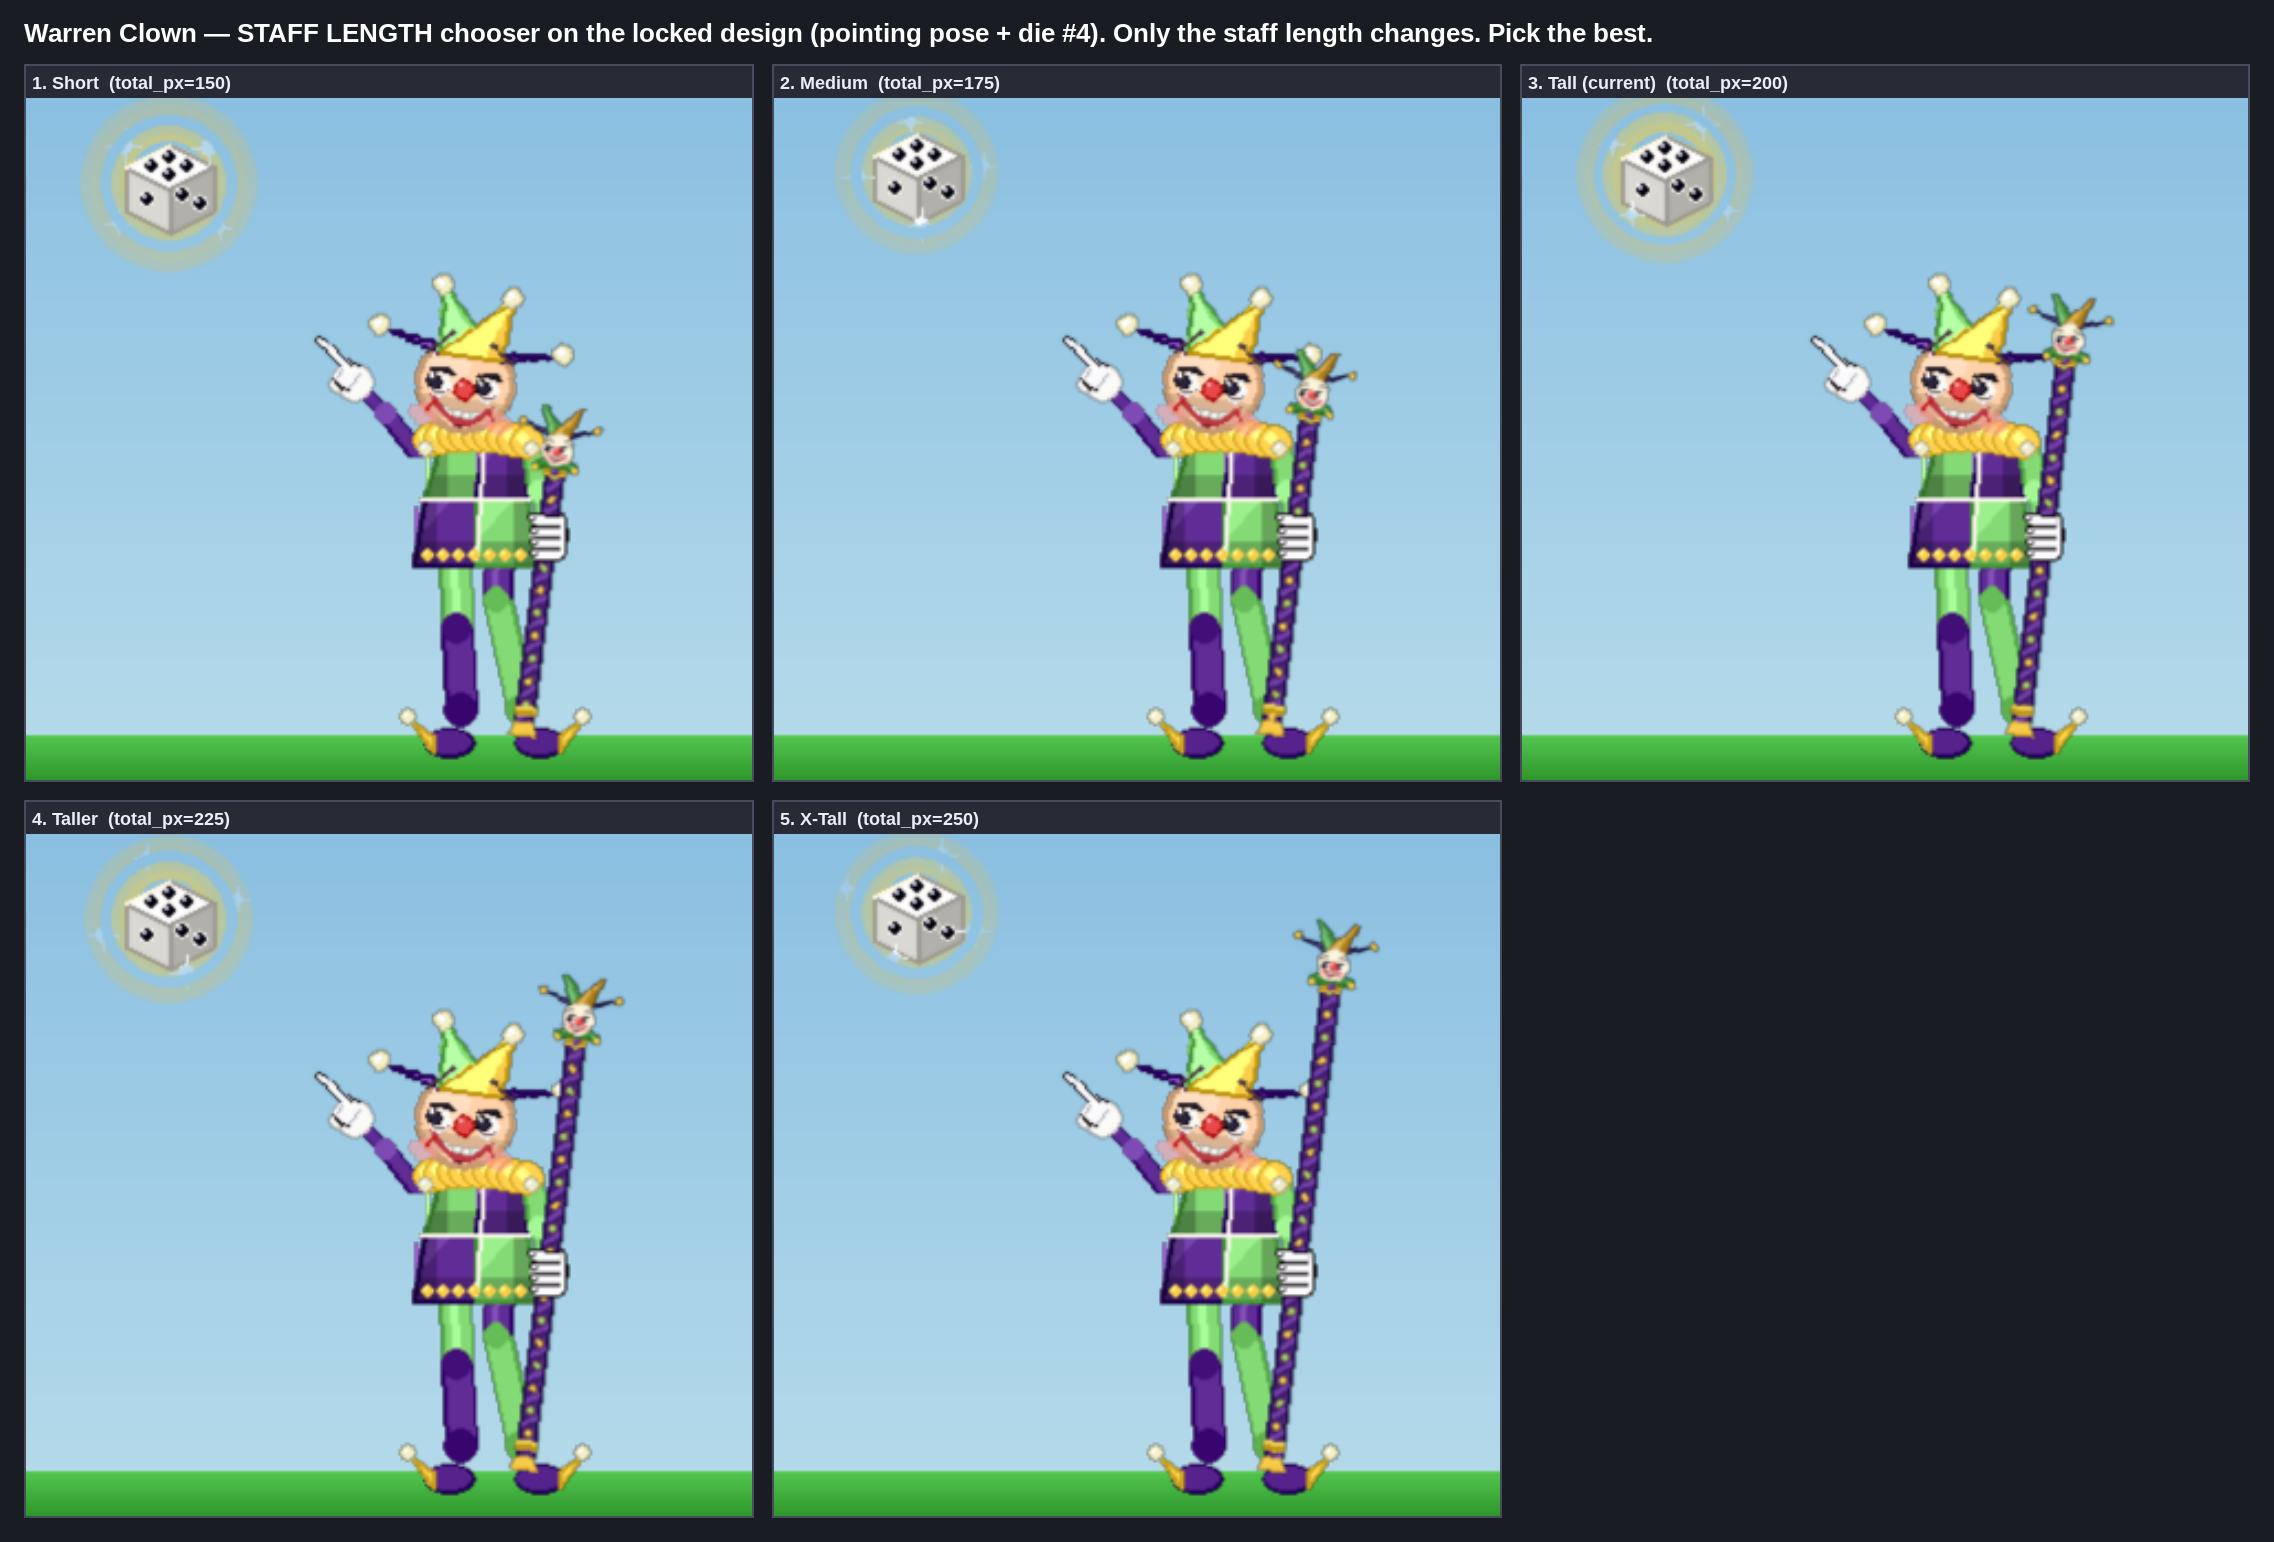
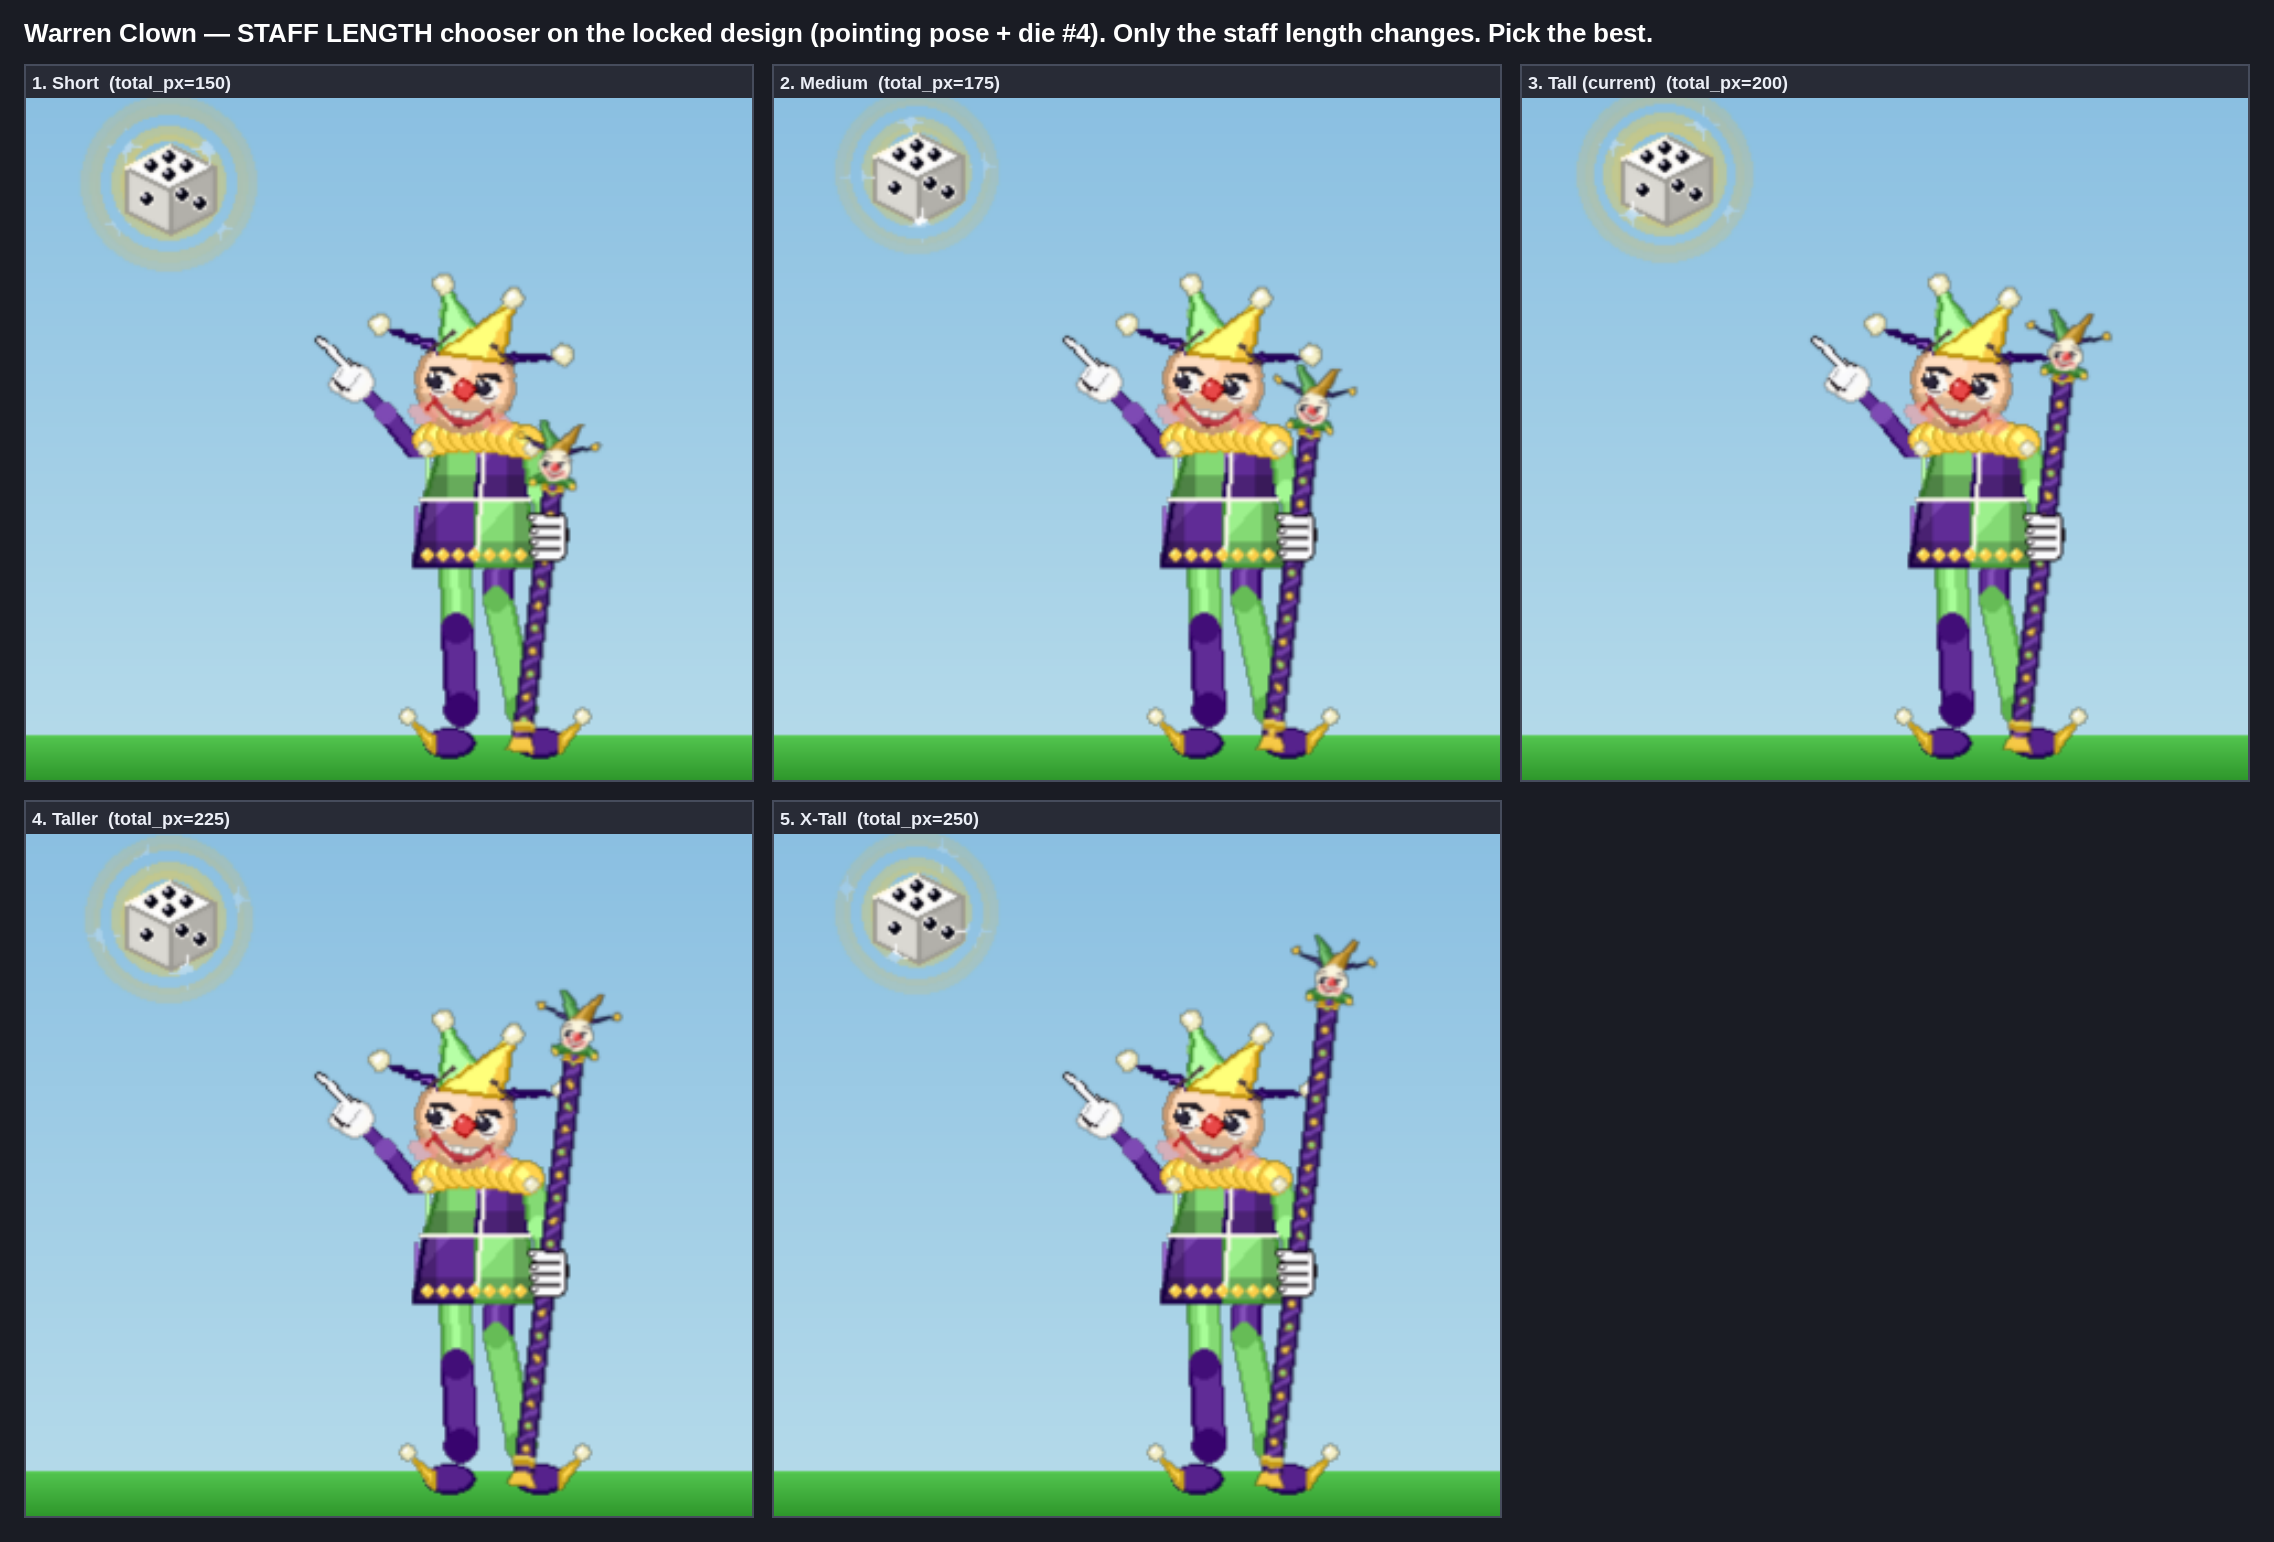
Round 17: plant the marotte foot on the ground for all staff lengths
Target the staff foot a few px into the ground line (instead of hovering
at ankle height) so the lower shaft clearly touches the ground in every
length option; the hand keeps gripping the shaft (grip rides higher for
shorter staffs).

diff --git a/tools/render_warren_sword.py b/tools/render_warren_sword.py
@@ -8594,7 +8594,12 @@ def render_clown_staff_r17(idx, *, total_px, bauble_px, cup_dy, wrist,
     prop, p_w, p_h = _held_marotte_surface(total_px, bauble_px)
     rot = -7
     rad = math.radians(rot)
-    grip_frac = max(0.30, 1.0 - (ground_y - r_hand[1]) / (p_h * math.cos(rad)))
+    # Plant the marotte FOOT a few px INTO the ground line for every staff length,
+    # so the lower shaft unmistakably touches the ground rather than hovering at
+    # ankle height. The hand keeps gripping the shaft (grip rides higher up for
+    # shorter staffs); the lower clamp just guards the bauble for extreme lengths.
+    foot_target = ground_y + 7
+    grip_frac = max(0.16, 1.0 - (foot_target - r_hand[1]) / (p_h * math.cos(rad)))
     rotated = pygame.transform.rotate(prop, rot)
     cxr, cyr = p_w / 2, p_h / 2
 
